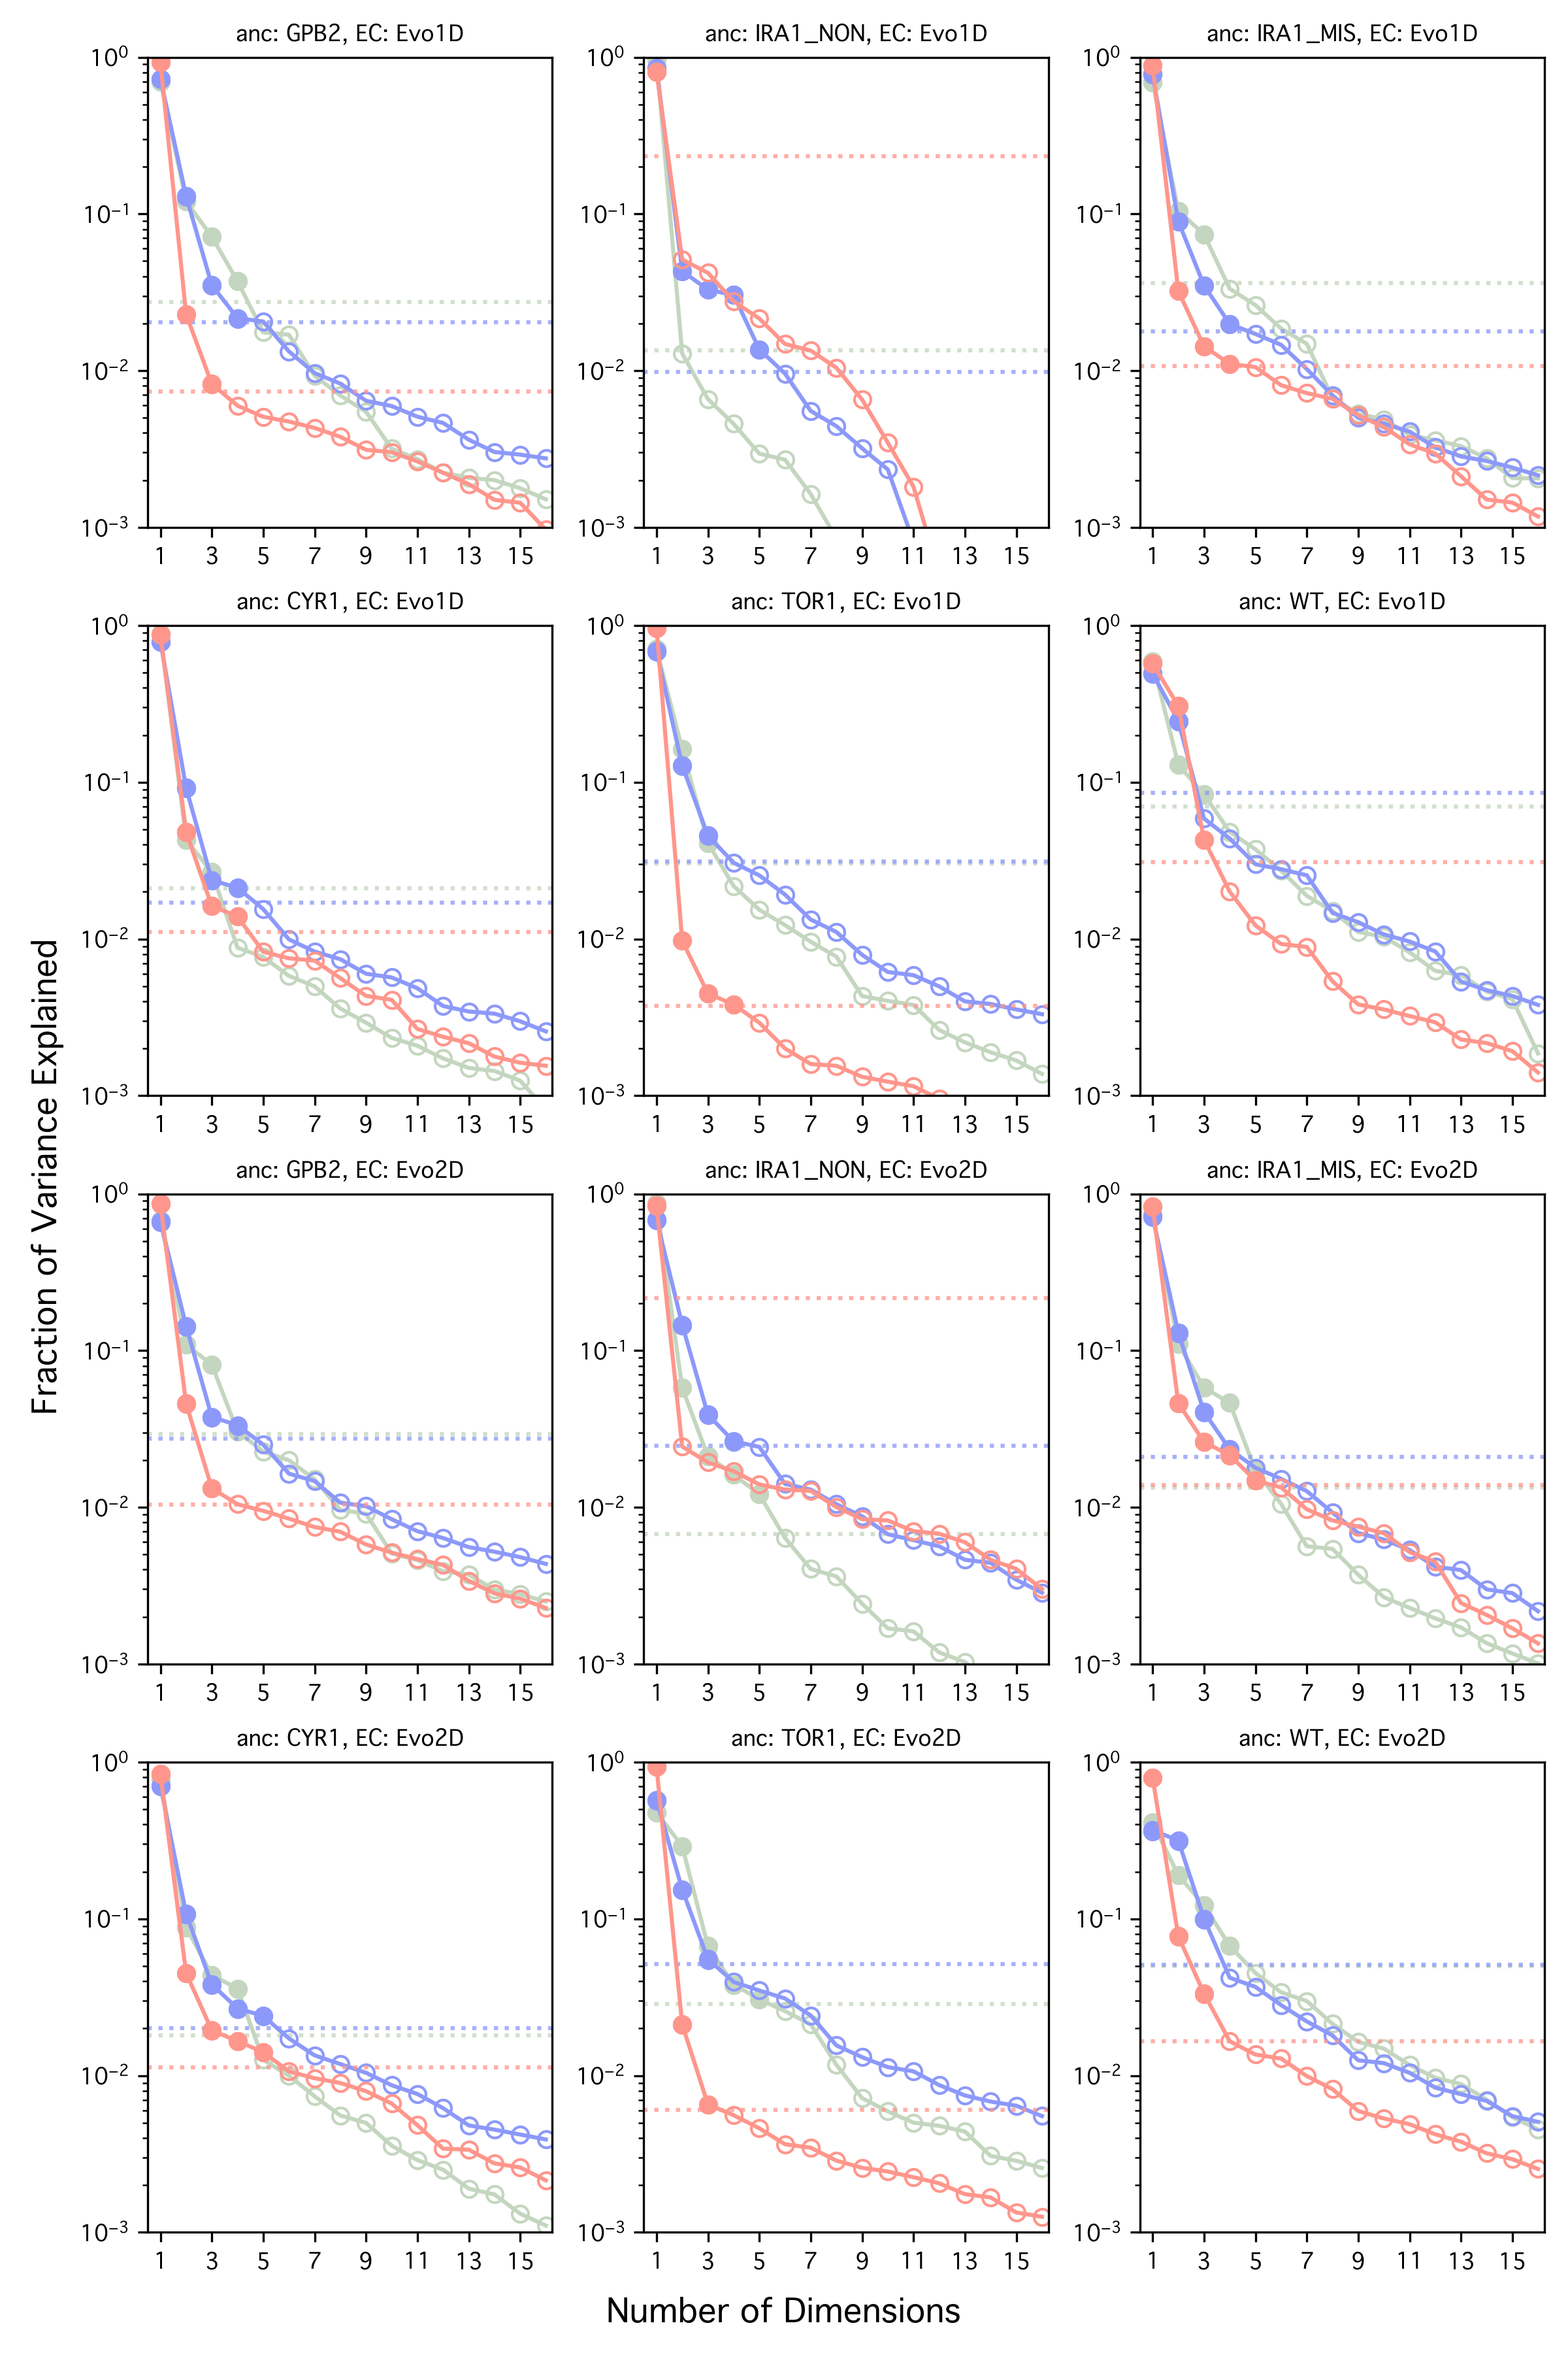
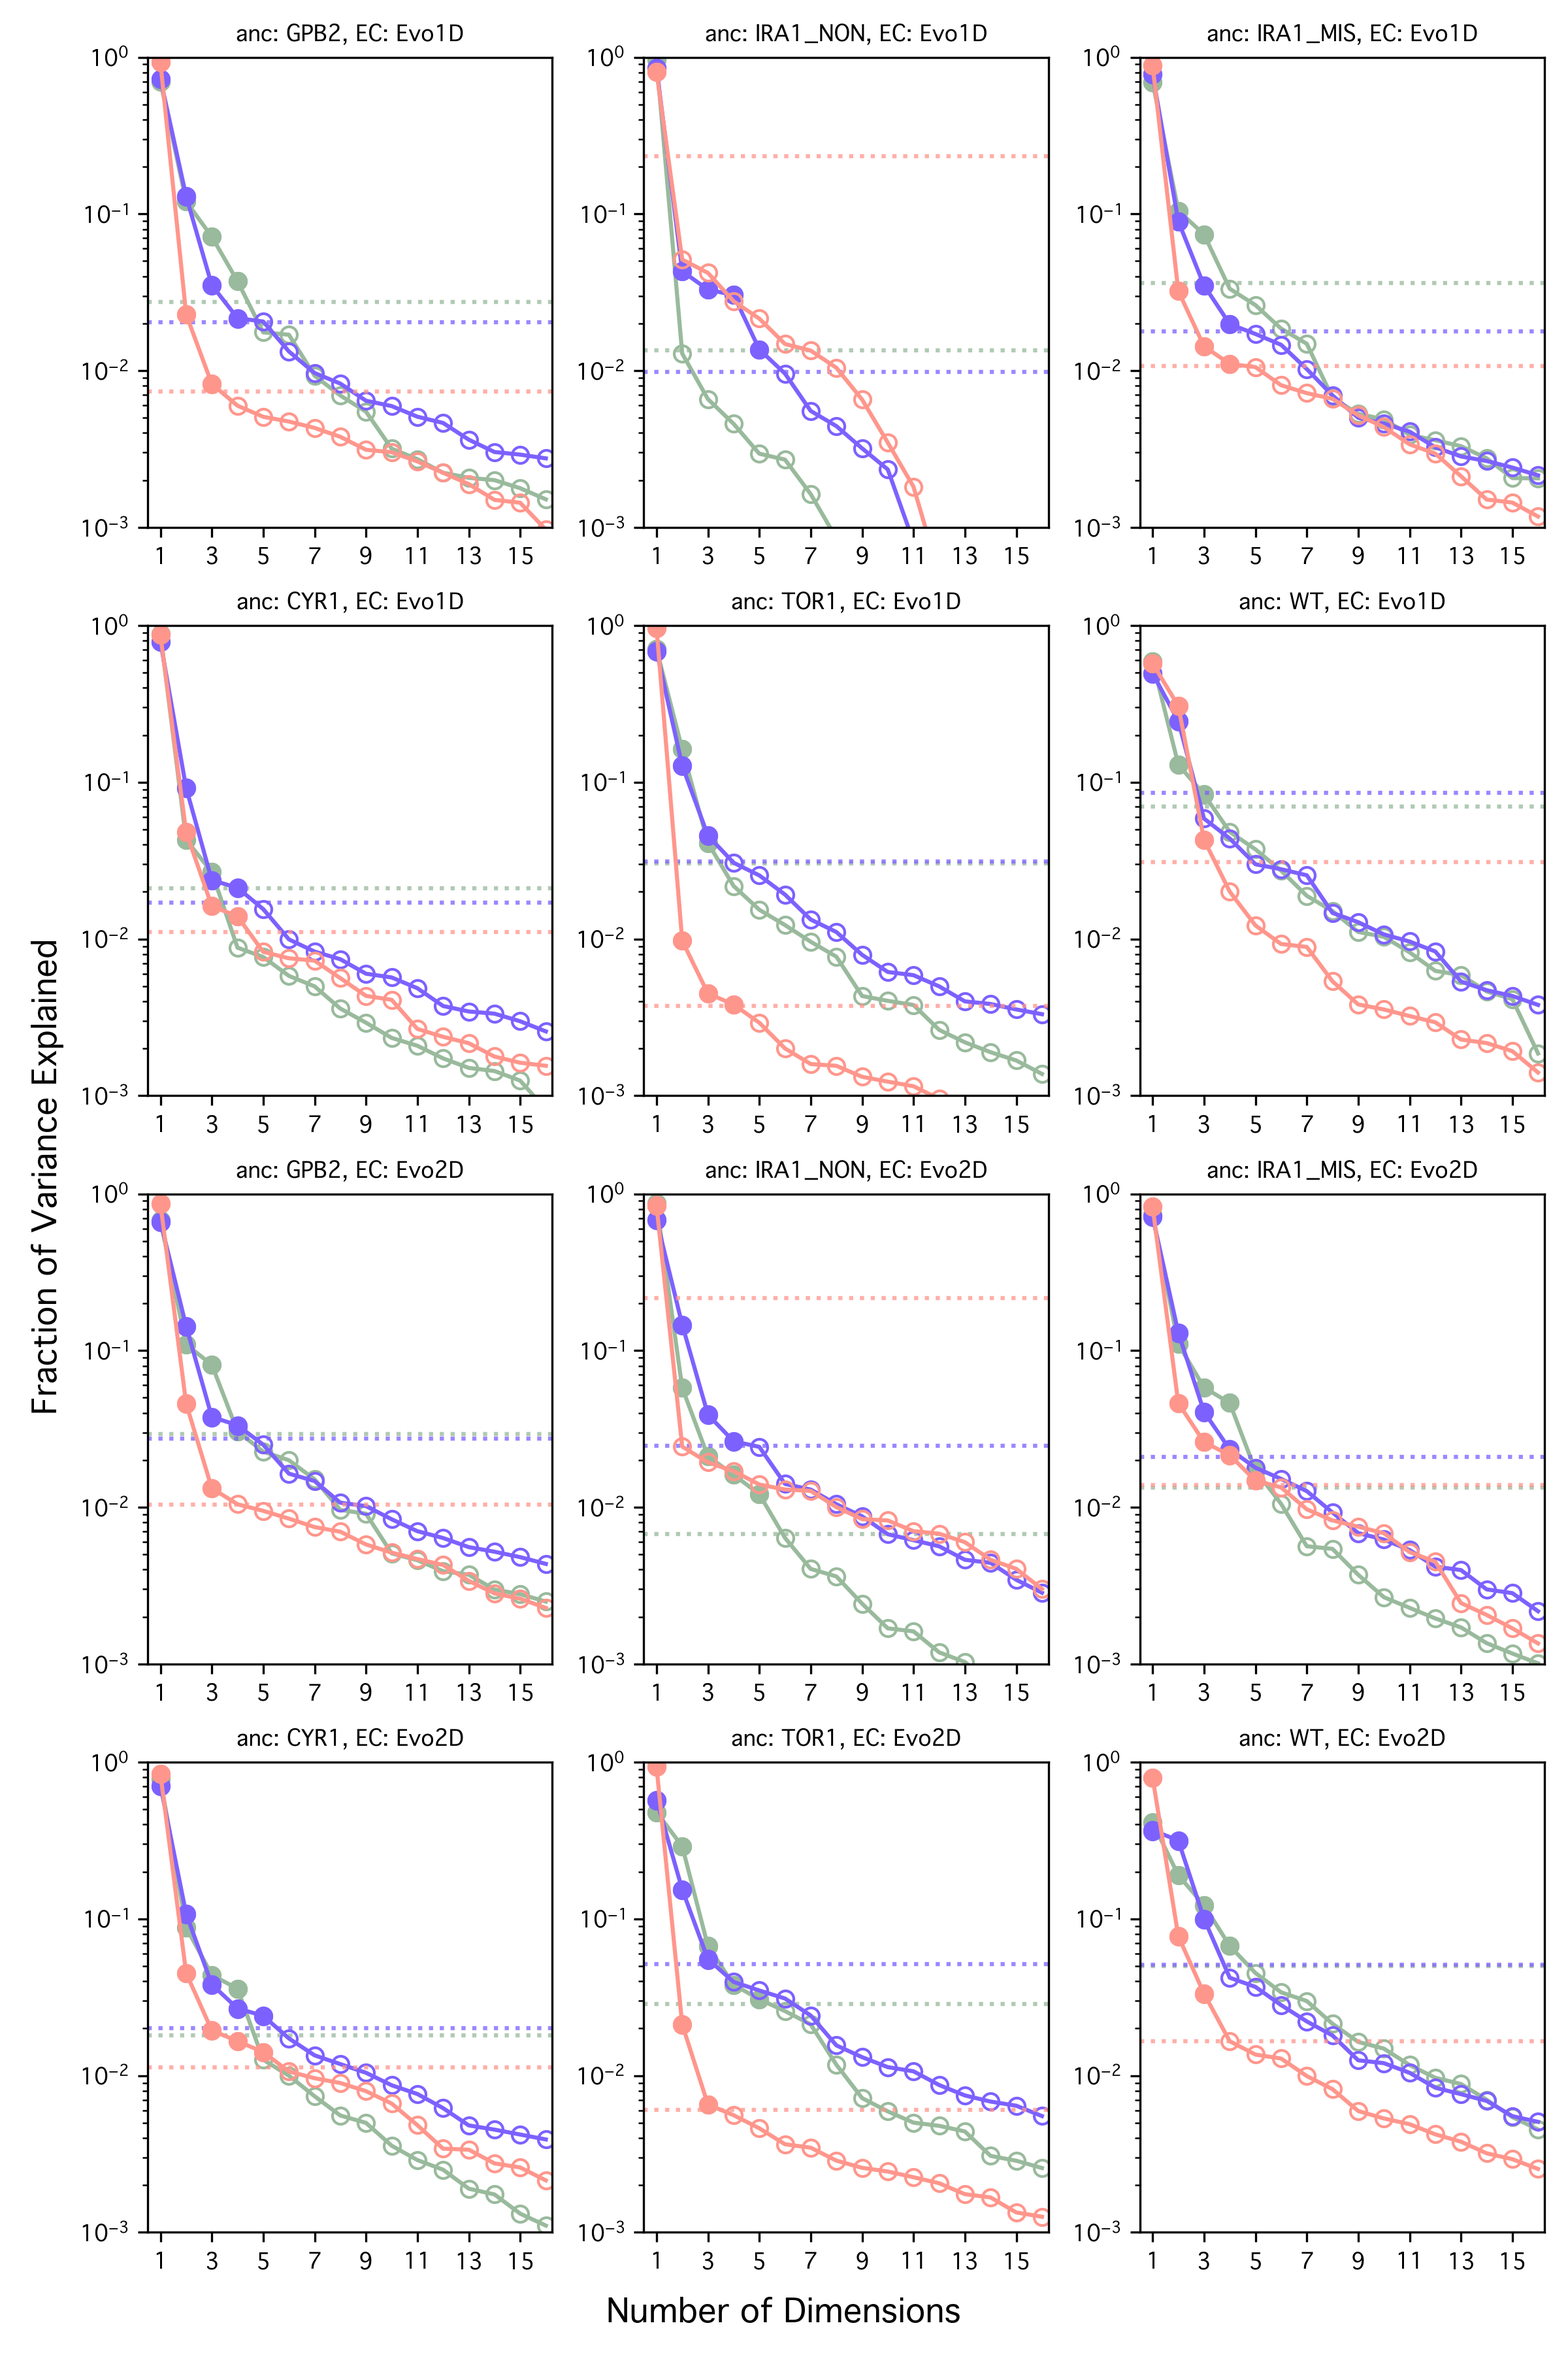
Changed scree plot colors

diff --git a/functions.py b/functions.py
@@ -805,6 +805,8 @@ ancestral_mutations = {'IRA1_NON':'II:522427:A:T:IRA1:stop_gained:c.4202T>A:p.Le
 
 # env_color_dict = {'2Day': (0.46,0.74,1), '1Day': (0.4,0.62,0.37), 'Salt': (0.96,0.45,0.42 )}
 
+# version from biorxiv paper:
+# env_color_dict = {'2Day': (0.77, 0.84, 0.75), '1Day': (0.55, 0.6, 0.98), 'Salt': (1, 0.59, 0.55)}
 
-env_color_dict = {'2Day': (0.77, 0.84, 0.75), '1Day': (0.55, 0.6, 0.98), 'Salt': (1, 0.59, 0.55)}
-
+# new color dict as of april 15 2025
+env_color_dict = {'2Day': (0.60, 0.73, 0.61), '1Day': (0.49, 0.38, 1), 'Salt': (1, 0.59, 0.55)}
